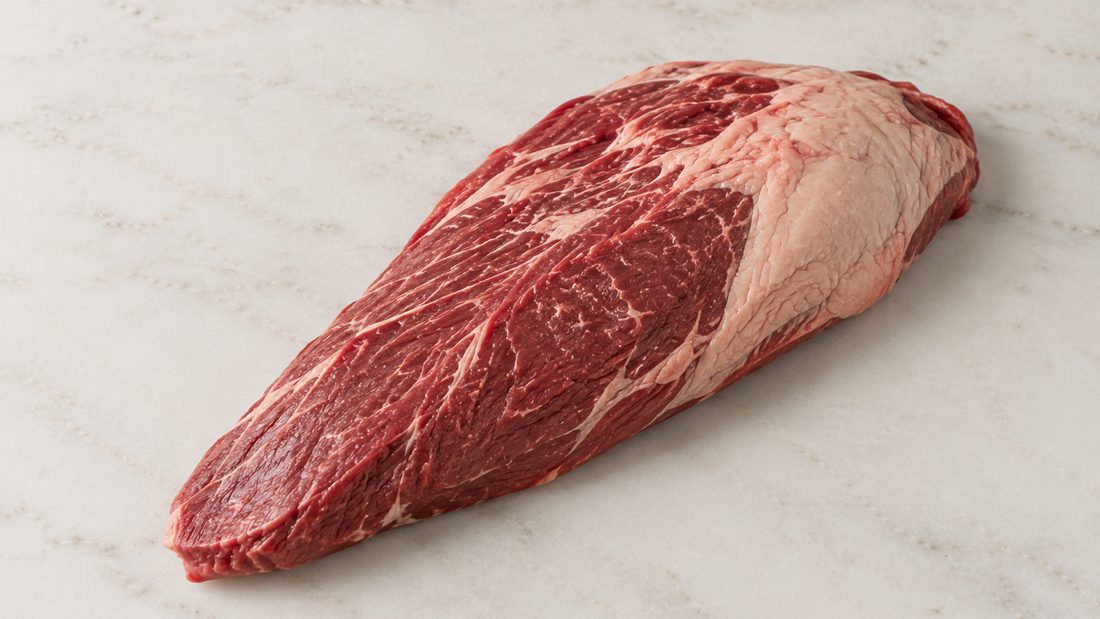
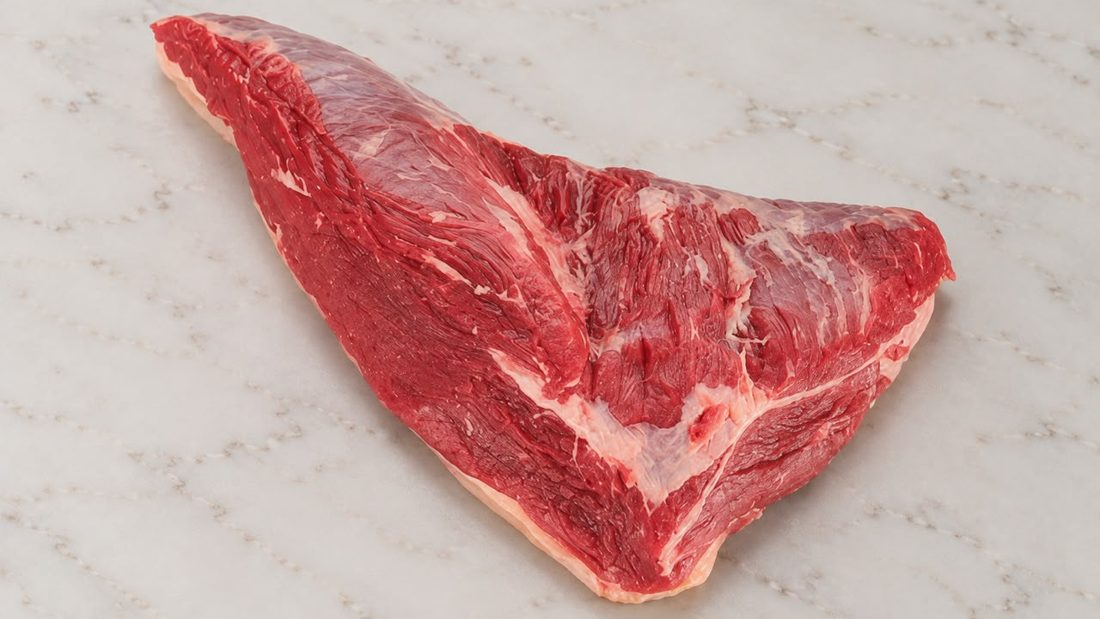
Cortes de LM Carnes en la tienda: Vacio entero, Bife de Chorizo, Ojo de Bife, Matambre entero, Asado Cotilla Especial, Asado Banderita y Peceto fileteado (ids 35-41, por kilo y por pieza) con sus fotos; foto nueva de la Colita; el Vacio pasa a Vacio porcionado; precios de la lista de Lucas (Colita 2

diff --git a/app.js b/app.js
@@ -22,11 +22,18 @@
    se sirve sin query — el comportamiento de antes, nunca un link roto. */
 /* IMG_V:INICIO */
 var IMG_V = {
-  "carne-colita.jpg": "072cf98e",
+  "carne-asado-banderita.jpg": "e6311475",
+  "carne-asado-cotilla.jpg": "60ca58d9",
+  "carne-bife-chorizo.jpg": "ec9ec4b4",
+  "carne-colita.jpg": "7b2882a1",
   "carne-cortes.jpg": "ada9a490",
   "carne-entrana.jpg": "c9bbf036",
   "carne-lomo.jpg": "7f188d99",
+  "carne-matambre.jpg": "0bd57d07",
+  "carne-ojo-bife.jpg": "819ef24d",
+  "carne-peceto.jpg": "2bb317d2",
   "carne-picana.jpg": "05684de8",
+  "carne-vacio-entero.jpg": "be8621f0",
   "carne-vacio.jpg": "c1827fc5",
   "categoria-carnes.jpg": "7b69d315",
   "combo-finde.jpg": "4e0022fd",
@@ -138,14 +145,23 @@ const PRODUCTOS = [
      esos ids. Eso no lo decide esta linea sino `zonas`, que no incluye clubes.
      Lo vigila `node _tools/verificar-pedido.js`, que cruza el catalogo entero
      contra los mapas reales del ERP. */
-  { id:30, abbr:"CCo", cat:"Carnes", porPeso:true, zonas:["estancias","pilar"], nombre:"Colita de Cuadril", desc:"Jugosa al horno y perfecta a la parrilla. Un corte que nunca falla.", precio:25000, img:"carne-colita.jpg", emoji:"\ud83e\udd69", chips:["Fresca, no congelada","Envasada al vac\u00edo"] },
+  { id:30, abbr:"CCo", cat:"Carnes", porPeso:true, zonas:["estancias","pilar"], nombre:"Colita de Cuadril", desc:"Jugosa al horno y perfecta a la parrilla. Un corte que nunca falla.", precio:20750, img:"carne-colita.jpg", emoji:"\ud83e\udd69", chips:["Fresca, no congelada","Envasada al vac\u00edo"] },
   /* La entrana viene de a DOS tiras por paquete (dato de Lucas, 10/9/2026), y
      el peso que se ve es el del paquete entero. Sin decirlo, el que elige una
      de 1,163 kg no sabe si le llega una tira grande o dos. */
-  { id:31, abbr:"CEn", cat:"Carnes", porPeso:true, zonas:["estancias","pilar"], nombre:"Entra\u00f1a",           desc:"Fina, sabrosa y r\u00e1pida. La que sale primero de la parrilla.",          precio:34000, img:"carne-entrana.jpg", emoji:"\ud83e\udd69", chips:["Fresca, no congelada","Envasada al vac\u00edo","2 tiras por paquete"] },
+  { id:31, abbr:"CEn", cat:"Carnes", porPeso:true, zonas:["estancias","pilar"], nombre:"Entra\u00f1a",           desc:"Fina, sabrosa y r\u00e1pida. La que sale primero de la parrilla.",          precio:37625, img:"carne-entrana.jpg", emoji:"\ud83e\udd69", chips:["Fresca, no congelada","Envasada al vac\u00edo","2 tiras por paquete"] },
   { id:32, abbr:"CLo", cat:"Carnes", porPeso:true, zonas:["estancias","pilar"], nombre:"Lomo sin cord\u00f3n",  desc:"El corte m\u00e1s tierno, limpio y sin cord\u00f3n. Para la ocasi\u00f3n que se merece el mejor.", precio:33000, img:"carne-lomo.jpg", emoji:"\ud83e\udd69", chips:["Fresco, no congelado","Envasado al vac\u00edo","Sin cord\u00f3n"] },
-  { id:33, abbr:"CPi", cat:"Carnes", porPeso:true, zonas:["estancias","pilar"], nombre:"Pica\u00f1a",            desc:"El corte brasilero que se volvi\u00f3 infaltable. Con su tapa de grasa.",  precio:26000, img:"carne-picana.jpg", emoji:"\ud83e\udd69", chips:["Fresca, no congelada","Envasada al vac\u00edo"] },
-  { id:34, abbr:"CVa", cat:"Carnes", porPeso:true, zonas:["estancias","pilar"], nombre:"Vac\u00edo",             desc:"El cl\u00e1sico del asado argentino. Paciencia y fuego bajo.",            precio:26000, img:"carne-vacio.jpg", emoji:"\ud83e\udd69", chips:["Fresco, no congelado","Envasado al vac\u00edo"] },
+  { id:33, abbr:"CPi", cat:"Carnes", porPeso:true, zonas:["estancias","pilar"], nombre:"Pica\u00f1a",            desc:"El corte brasilero que se volvi\u00f3 infaltable. Con su tapa de grasa.",  precio:22875, img:"carne-picana.jpg", emoji:"\ud83e\udd69", chips:["Fresca, no congelada","Envasada al vac\u00edo"] },
+  { id:34, abbr:"CVa", cat:"Carnes", porPeso:true, zonas:["estancias","pilar"], nombre:"Vac\u00edo porcionado", desc:"El cl\u00e1sico del asado argentino, en porciones. Paciencia y fuego bajo.", precio:26000, img:"carne-vacio.jpg", emoji:"\ud83e\udd69", chips:["Fresco, no congelado","Envasado al vac\u00edo","Porcionado"] },
+  /* Los cortes de LM Carnes (7/10/2026): ids 35-41 del ERP (HOME_PRODUCT_COLS
+     CJ-CP, PILAR CB-CH, RED CM-CS). Precios de la lista de Lucas. */
+  { id:35, abbr:"CVE", cat:"Carnes", porPeso:true, zonas:["estancias","pilar"], nombre:"Vac\u00edo entero", desc:"La pieza entera, como la pide el asador. Para una parrillada en serio.", precio:26000, img:"carne-vacio-entero.jpg", emoji:"\ud83e\udd69", chips:["Fresco, no congelado","Envasado al vac\u00edo","Pieza entera"] },
+  { id:36, abbr:"CBC", cat:"Carnes", porPeso:true, zonas:["estancias","pilar"], nombre:"Bife de Chorizo", desc:"Jugoso y con su borde de grasa. El cl\u00e1sico de la parrilla.", precio:29250, img:"carne-bife-chorizo.jpg", emoji:"\ud83e\udd69", chips:["Fresco, no congelado","Envasado al vac\u00edo"] },
+  { id:37, abbr:"COB", cat:"Carnes", porPeso:true, zonas:["estancias","pilar"], nombre:"Ojo de Bife", desc:"Bien marmolado, tierno y lleno de sabor. Vuelta y vuelta.", precio:30325, img:"carne-ojo-bife.jpg", emoji:"\ud83e\udd69", chips:["Fresco, no congelado","Envasado al vac\u00edo"] },
+  { id:38, abbr:"CMa", cat:"Carnes", porPeso:true, zonas:["estancias","pilar"], nombre:"Matambre entero", desc:"A la parrilla, a la pizza o arrollado. Rinde un mont\u00f3n.", precio:22825, img:"carne-matambre.jpg", emoji:"\ud83e\udd69", chips:["Fresco, no congelado","Envasado al vac\u00edo","Pieza entera"] },
+  { id:39, abbr:"CAC", cat:"Carnes", porPeso:true, zonas:["estancias","pilar"], nombre:"Asado Cotilla Especial", desc:"El asado en placa, con su hueso. Fuego bajo y sin apuro.", precio:27900, img:"carne-asado-cotilla.jpg", emoji:"\ud83e\udd69", chips:["Fresco, no congelado","Envasado al vac\u00edo"] },
+  { id:40, abbr:"CAB", cat:"Carnes", porPeso:true, zonas:["estancias","pilar"], nombre:"Asado Banderita", desc:"Tiras con el hueso cruzado. Se hace r\u00e1pido y queda crocante.", precio:27900, img:"carne-asado-banderita.jpg", emoji:"\ud83e\udd69", chips:["Fresco, no congelado","Envasado al vac\u00edo"] },
+  { id:41, abbr:"CPe", cat:"Carnes", porPeso:true, zonas:["estancias","pilar"], nombre:"Peceto fileteado", desc:"Magro y tierno, ya cortado en bifes. Para milanesas o a la plancha.", precio:25025, img:"carne-peceto.jpg", emoji:"\ud83e\udd69", chips:["Fresco, no congelado","Envasado al vac\u00edo","Fileteado"] },
 ];
 
 const CATEGORIAS = [
@@ -624,7 +640,7 @@ function piezasDe(abbr) {
    mayor a menor margen, medido en el ERP: sugerir primero lo que menos deja
    seria empujar justo la venta que menos conviene. Los numeros no van aca:
    el repo es publico. Un corte nuevo que no este en la lista entra al final. */
-var SUG_CARNE_ORDEN = ['CPi', 'CVa', 'CCo', 'CLo', 'CEn'];
+var SUG_CARNE_ORDEN = ['CVE', 'CBC', 'COB', 'CAC', 'CAB', 'CPe', 'CMa', 'CPi', 'CCo', 'CLo', 'CEn', 'CVa'];
 var SUG_CARNE_MAX = 2;
 
 function _sugerenciaCarne() {

diff --git a/arrepentimiento.html b/arrepentimiento.html
@@ -22,7 +22,7 @@
   <link rel="preconnect" href="https://fonts.googleapis.com" />
   <link rel="preconnect" href="https://fonts.gstatic.com" crossorigin />
   <link href="https://fonts.googleapis.com/css2?family=Montserrat:wght@300;400;500;600;700&display=swap" rel="stylesheet" />
-  <link rel="stylesheet" href="styles.css?v=0c25a873" />
+  <link rel="stylesheet" href="styles.css?v=f82ead21" />
 </head>
 <body>
 

diff --git a/catering.html b/catering.html
@@ -22,7 +22,7 @@
   <link rel="preconnect" href="https://fonts.googleapis.com" />
   <link rel="preconnect" href="https://fonts.gstatic.com" crossorigin />
   <link href="https://fonts.googleapis.com/css2?family=Montserrat:wght@300;400;500;600;700&display=swap" rel="stylesheet" />
-  <link rel="stylesheet" href="styles.css?v=0c25a873" />
+  <link rel="stylesheet" href="styles.css?v=f82ead21" />
 </head>
 <body>
 

diff --git a/contacto.html b/contacto.html
@@ -22,7 +22,7 @@
   <link rel="preconnect" href="https://fonts.googleapis.com" />
   <link rel="preconnect" href="https://fonts.gstatic.com" crossorigin />
   <link href="https://fonts.googleapis.com/css2?family=Montserrat:wght@300;400;500;600;700&display=swap" rel="stylesheet" />
-  <link rel="stylesheet" href="styles.css?v=0c25a873" />
+  <link rel="stylesheet" href="styles.css?v=f82ead21" />
 </head>
 <body>
 

diff --git a/nosotros.html b/nosotros.html
@@ -22,7 +22,7 @@
   <link rel="preconnect" href="https://fonts.googleapis.com" />
   <link rel="preconnect" href="https://fonts.gstatic.com" crossorigin />
   <link href="https://fonts.googleapis.com/css2?family=Montserrat:wght@300;400;500;600;700&display=swap" rel="stylesheet" />
-  <link rel="stylesheet" href="styles.css?v=0c25a873" />
+  <link rel="stylesheet" href="styles.css?v=f82ead21" />
 </head>
 <body>
 

diff --git a/preguntas.html b/preguntas.html
@@ -22,7 +22,7 @@
   <link rel="preconnect" href="https://fonts.googleapis.com" />
   <link rel="preconnect" href="https://fonts.gstatic.com" crossorigin />
   <link href="https://fonts.googleapis.com/css2?family=Montserrat:wght@300;400;500;600;700&display=swap" rel="stylesheet" />
-  <link rel="stylesheet" href="styles.css?v=0c25a873" />
+  <link rel="stylesheet" href="styles.css?v=f82ead21" />
 </head>
 <body>
 

diff --git a/privacidad.html b/privacidad.html
@@ -22,7 +22,7 @@
   <link rel="preconnect" href="https://fonts.googleapis.com" />
   <link rel="preconnect" href="https://fonts.gstatic.com" crossorigin />
   <link href="https://fonts.googleapis.com/css2?family=Montserrat:wght@300;400;500;600;700&display=swap" rel="stylesheet" />
-  <link rel="stylesheet" href="styles.css?v=0c25a873" />
+  <link rel="stylesheet" href="styles.css?v=f82ead21" />
 </head>
 <body>
 

diff --git a/ser-parte.html b/ser-parte.html
@@ -22,7 +22,7 @@
   <link rel="preconnect" href="https://fonts.googleapis.com" />
   <link rel="preconnect" href="https://fonts.gstatic.com" crossorigin />
   <link href="https://fonts.googleapis.com/css2?family=Montserrat:wght@300;400;500;600;700&display=swap" rel="stylesheet" />
-  <link rel="stylesheet" href="styles.css?v=0c25a873" />
+  <link rel="stylesheet" href="styles.css?v=f82ead21" />
 </head>
 <body>
 

diff --git a/terminos.html b/terminos.html
@@ -22,7 +22,7 @@
   <link rel="preconnect" href="https://fonts.googleapis.com" />
   <link rel="preconnect" href="https://fonts.gstatic.com" crossorigin />
   <link href="https://fonts.googleapis.com/css2?family=Montserrat:wght@300;400;500;600;700&display=swap" rel="stylesheet" />
-  <link rel="stylesheet" href="styles.css?v=0c25a873" />
+  <link rel="stylesheet" href="styles.css?v=f82ead21" />
 </head>
 <body>
 

diff --git a/tips.html b/tips.html
@@ -22,7 +22,7 @@
   <link rel="preconnect" href="https://fonts.googleapis.com" />
   <link rel="preconnect" href="https://fonts.gstatic.com" crossorigin />
   <link href="https://fonts.googleapis.com/css2?family=Montserrat:wght@300;400;500;600;700&display=swap" rel="stylesheet" />
-  <link rel="stylesheet" href="styles.css?v=0c25a873" />
+  <link rel="stylesheet" href="styles.css?v=f82ead21" />
 </head>
 <body>
 

diff --git a/index.html b/index.html
@@ -825,6 +825,6 @@
   </div>
 </div>
 
-<script src="app.js?v=73ef8e1e"></script>
+<script src="app.js?v=4e2f48bb"></script>
 </body>
 </html>
